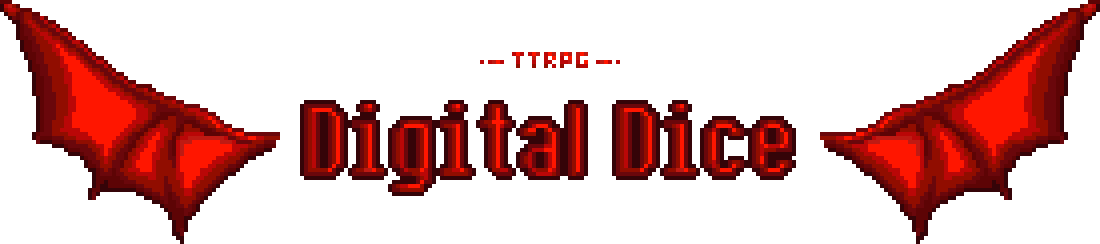
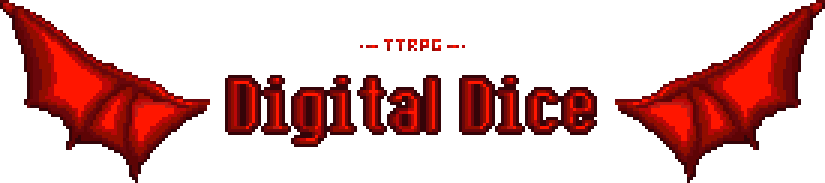
final touches to visuals

Changed region(s): [[0.8182, 0.6557, 0.8485, 0.7377], [0.1515, 0.6557, 0.1818, 0.7377], [0.5758, 0.6831, 0.6061, 0.7104]]

diff --git a/diceapp.py b/diceapp.py
@@ -2,8 +2,14 @@ import tkinter as tk
 from tkinter import *
 from PIL import Image, ImageTk
 import random
+import ctypes
 
 # --- FUNCTIONS ---
+
+def loadFont(path):
+    FR_PRIVATE = 0x10
+    FR_NOT_ENUM = 0x20
+    ctypes.windll.gdi32.AddFontResourceExW(path, FR_PRIVATE, 0)
 
 def createWidget(parent, widgetType, **options):
     return widgetType(parent, **options)
@@ -13,9 +19,9 @@ def createDiceButton(parent, text, image):
         parent, tk.Button,
         bd = 0, cursor = 'hand2',
         bg = root.cget("bg"),
-        fg = "black", font = ("Arial", 12, "bold"),
+        fg = "#6a070b", font = ("Ithaca", 18),
         activebackground = root.cget("bg"),
-        activeforeground = None,
+        activeforeground = "#350408",
         relief = "flat",
         command=lambda d=die: selectDice(d),
         image = image, text = text,
@@ -41,10 +47,8 @@ root = createWidget(None, tk.Tk)
 root.title("Dice Roller")
 wWidth, wHeight = 1200, 1000
 root.config(bg = '#1E0F11')
-## Center the pop-up
-centerX = (root.winfo_screenwidth() // 2) - (wWidth // 2)
-centerY = (root.winfo_screenheight() // 2) - (wHeight // 2)
-root.geometry(f"{wWidth}x{wHeight}+{centerX}+{centerY}")
+root.iconphoto(True, tk.PhotoImage(file="assets/images/d4.png"))
+loadFont("assets/Ithaca-LVB75.ttf")
 
 # --- UI ---
 ## Load Title Photo
@@ -55,11 +59,12 @@ titleImage = createWidget(
     bg = root.cget("bg")
 )
 titleImage.photo = titlePhoto
-titleImage.pack(pady = (50, 0))
+titleImage.pack(pady = (75, 30))
 
 ## Create dice menu
 diceDisplay = createWidget(
     root, tk.Frame,
+    bg = root.cget("bg"),
     height = 160, width = 1000
 )
 diceDisplay.pack()
@@ -69,22 +74,19 @@ selected = None # no dice is selected when window opens
 for die in diceTypes:
     photo = PhotoImage(file = "assets/images/" + die + ".png")
     diceButton = createDiceButton(diceDisplay, die, photo)
-    diceButton.pack(side = LEFT)
+    diceButton.pack(side = LEFT, padx = 5)
     diceButton.pack_propagate(False)
     diceButtons[die] = (diceButton,photo)
-diceDisplay.pack(pady = 10)
+diceDisplay.pack()
 
 ## Display result
 resultLabel = createWidget(
     root, tk.Label,
-    text='Result: ',
-    font='50', bg='lightblue',
-    bd=3, cursor='hand2',
-    highlightcolor='red',
-    highlightbackground='black',
-    highlightthickness=2
+    bg = root.cget("bg"), bd = 0, 
+    text = 'Select a dice to start',
+    fg = "#6a070b", font = ("Ithaca", 40)
 )
-resultLabel.pack(pady = (20,0))
+resultLabel.pack(pady = (50,0))
 
 ## Load Background photo
 backgroundPhoto = PhotoImage(file = "assets/images/lowerUI.png")
@@ -94,7 +96,7 @@ backgroundImage = createWidget(
     bg = root.cget("bg")
 )
 backgroundImage.photo = backgroundPhoto
-backgroundImage.pack(pady = (50, 0))
+backgroundImage.pack()
 
 # --- MAIN ---
 root.mainloop()
